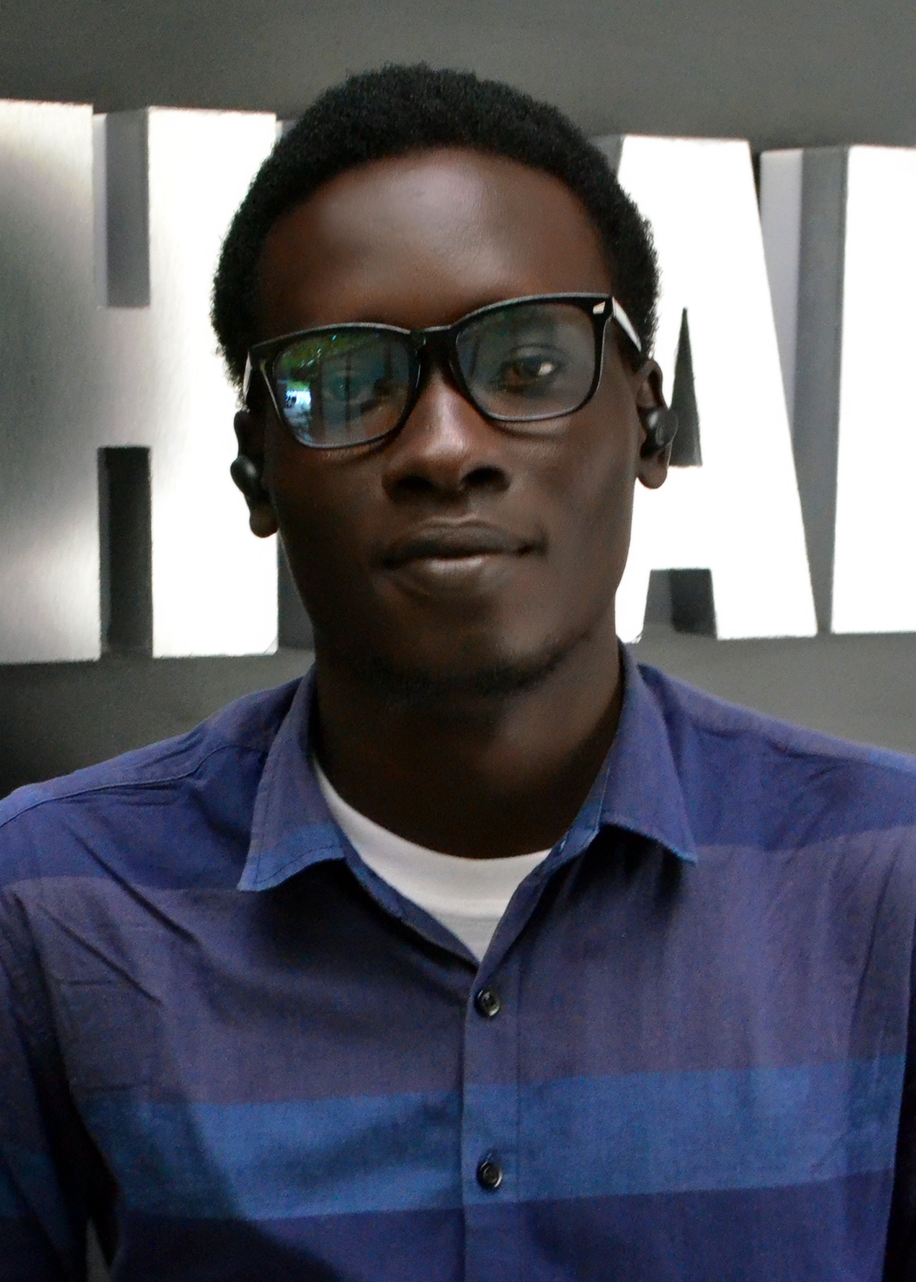
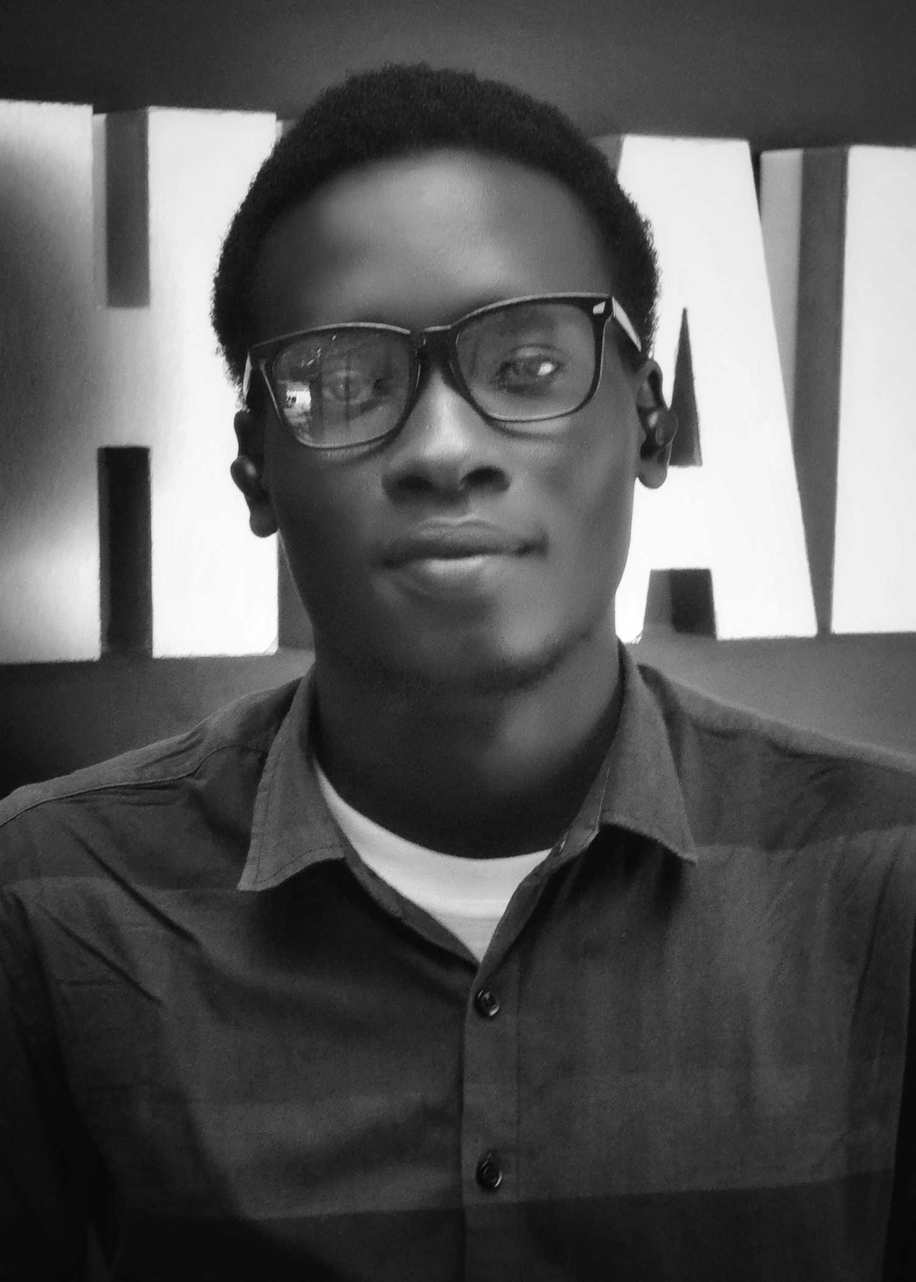
Update components

diff --git a/src/App.jsx b/src/App.jsx
@@ -12,7 +12,7 @@ const App = () => {
     return localStorage.getItem('darkMode') === 'true';
   });
   const [isSideMenuOpen, setIsSideMenuOpen] = useState(false);
-  const [activeTab, setActiveTab] = useState('gis');
+  const [activeTab, setActiveTab] = useState('data');
   
   useEffect(() => {
     if (isDarkMode) {
@@ -45,10 +45,9 @@ const App = () => {
           <h1 className="text-5xl font-bold text-gray-800 dark:text-gray-200 mb-6">
             Hello&#128075;, I'm Hussaini Ahmed
           </h1>
-          <p className="text-lg text-gray-600 dark:text-gray-400 mb-2">
-            Your friendly neighborhood <span className="text-blue-500">Data Scientist, </span> 
-            currently navigating the rocky terrain of a geology degree at the Federal University of Technology, Minna.
-            With a strong passion for the oil and gas sector and its integration with machine learning, I combine analytical skills and domain expertise to uncover valuable insights. 
+          <p className="text-lg text-gray-600 dark:text-gray-400 mb-2"> 
+            I specialize in <span className="text-blue-500">Geospatial Data Science</span>, where Data Analytics meets GIS Analysis to uncover patterns, visualize trends, and drive informed decision-making. From analyzing complex datasets to crafting interactive maps, I transform raw data into powerful insights that tell compelling stories. 
+            Let’s harness the power of location intelligence and data-driven solutions together!
           </p>
           <p className="text-lg text-gray-600 dark:text-gray-400 mb-8">I leverage machine learning and data science to unearth patterns and trends that drive innovation. So, if you need someone to map out the 
             path to your next big discovery or transform complex datasets into actionable insights, you’ve come to the right place. Let's rock and roll! </p>
@@ -63,29 +62,29 @@ const App = () => {
         <div className="flex justify-center mb-4 space-x-0">
           <button
             className={`px-6 py-3 flex items-center ${
-              activeTab === 'gis'
-                ? 'bg-gradient-to-r from-blue-400 via-blue-500 to-blue-600 hover:from-indigo-400 hover:via-indigo-500 hover:to-indigo-600 text-white px-5 py-2 shadow-lg transform hover:scale-105 transition-all duration-300 ease-in-out group'
-                : 'bg-white text-gray-800 dark:bg-gray-700 dark:text-gray-200'
-            }`}
-            onClick={() => setActiveTab('gis')}
-          >
-           <img src={"images/icons/location.png"} alt={"Icon"} className="w-6 h-6"/>
-           <span className='px-2'>GIS Analysis Projects</span>
-          </button>
-          <button
-            className={`px-6 py-3 flex items-center ${
               activeTab === 'data'
                 ? 'bg-gradient-to-r from-blue-400 via-blue-500 to-blue-600 hover:from-indigo-400 hover:via-indigo-500 hover:to-indigo-600 text-white px-5 py-2 shadow-lg transform hover:scale-105 transition-all duration-300 ease-in-out group'
                 : 'bg-white text-gray-800 dark:bg-gray-700 dark:text-gray-200'
             }`}
             onClick={() => setActiveTab('data')}
           >
+           <img src={"images/icons/location.png"} alt={"Icon"} className="w-6 h-6"/>
+           <span className='px-2'>Data Analytics</span>
+          </button>
+          <button
+            className={`px-6 py-3 flex items-center ${
+              activeTab === 'gis'
+                ? 'bg-gradient-to-r from-blue-400 via-blue-500 to-blue-600 hover:from-indigo-400 hover:via-indigo-500 hover:to-indigo-600 text-white px-5 py-2 shadow-lg transform hover:scale-105 transition-all duration-300 ease-in-out group'
+                : 'bg-white text-gray-800 dark:bg-gray-700 dark:text-gray-200'
+            }`}
+            onClick={() => setActiveTab('gis')}
+          >
             <img src={"images/icons/exploration.png"} alt={"Icon"} className="w-6 h-6"/>
-            <span className='px-2'>Data Analysis Projects</span>
+            <span className='px-2'>GIS Analysis</span>
           </button>
         </div>
         <div className="mt-4">
-          {activeTab === 'gis' ? <RecentGis /> : <RecentData />}
+          {activeTab === 'data' ? <RecentData /> : <RecentGis />}
         </div>
       </div>
       <Footer />

diff --git a/src/components/Skill_Section/SkillsSection.jsx b/src/components/Skill_Section/SkillsSection.jsx
@@ -10,7 +10,7 @@ const SkillCard = ({ title, description,  imageurl, experiences}) => {
       <h2 className="text-xl font-bold mb-2 text-gray-800 dark:text-white">{title}</h2>
       <p className="text-center mb-4 text-gray-600 dark:text-gray-300">{description}</p>
       <div className="mt-auto w-full">
-        <h3 className="text-lg text-center font-semibold mb-2 text-gray-800 dark:text-white">Experiences:</h3>
+        <h3 className="text-lg text-center font-semibold mb-2 text-gray-800 dark:text-white">Tools/Languages:</h3>
         <div className="flex flex-wrap justify-center">
           {experiences.map((exp, index) => (
             <div key={index} className="flex flex-col items-center mx-2 mb-2">
@@ -27,36 +27,8 @@ const SkillCard = ({ title, description,  imageurl, experiences}) => {
 const SkillsSection = () => {
   const skills = [
     {
-      title: "GIS Analysis",
-      description: "I can transform complex spatial data into visually stunning maps that reveal the hidden treasures of our Earth. Whether it's analyzing terrain, plotting geospatial patterns, or making sense of spatial data, I bring a sense of adventure and precision to every project. Who needs a fedora and a whip when you've got GIS?",
-      imageurl: "images/icons/location.png",
-      experiences: [
-        { 
-          name: "ArcGIS Pro",
-        },
-        { 
-          name: "QGIS",
-        },
-        { 
-          name: "Rockworks",
-        },
-        { 
-          name: "Georose",
-        },
-        { 
-          name: "Python",
-        },
-        { 
-          name: "Pandas",
-        },
-        { 
-          name: "SQL",
-        }
-      ]
-    },
-    {
-      title: "Data Analysis",
-      description: "I dive deep into data sets, uncovering trends, correlations, and anomalies that others might miss. From crunching numbers to crafting dashboards, I bring clarity to chaos and help businesses make data-driven decisions with confidence. Who knew number-crunching could be so exciting? Elementary, my dear Watson!",
+      title: "Data Analytics",
+      description: "Data holds the key to unlocking insights, and I specialize in transforming raw numbers into meaningful narratives. Using tools like Python, SQL, Excel, and Power BI, I analyze trends, identify patterns, and provide data-driven solutions that empower better decision-making. Whether it’s business intelligence, predictive modeling, or exploratory data analysis",
       imageurl: "images/icons/exploration.png",
       experiences: [
         { 
@@ -72,17 +44,51 @@ const SkillsSection = () => {
           name: "Python",
         },
         { 
+          name: "Sci-kit Learn",
+        },
+        { 
           name: "Matlibplot",
         },
         { 
           name: "SQL",
         },
       ]
-    }
+    },
+    {
+      title: "GIS Analysis",
+      description: "Location data is more than just points on a map—it tells a story. I specialize in GIS Analysis, using tools like ArcGIS, QGIS, and Google Earth to analyze spatial relationships, model geographic patterns, and create visually compelling maps. From environmental assessments to urban planning and infrastructure mapping, I turn geographic data into actionable intelligence.",
+      imageurl: "images/icons/location.png",
+      experiences: [
+        { 
+          name: "ArcGIS Pro",
+        },
+        { 
+          name: "QGIS",
+        },
+        { 
+          name: "Rockworks",
+        },
+        { 
+          name: "Georose",
+        },
+        { 
+          name: "Excel",
+        },
+        { 
+          name: "Python",
+        },
+        { 
+          name: "Pandas",
+        },
+        { 
+          name: "SQL",
+        }
+      ]
+    },
   ];
 
   return (
-    <div className="container mx-auto px-4 py-8">
+    <div id='id="projects"' className="container mx-auto px-4 py-8">
         <div className='border-gray-300 dark:border-gray-600 border-b-2 mb-8 pb-2'>
         <h1 className="text-2xl font-bold text-gray-900 dark:text-gray-200">
             What I Do

diff --git a/src/components/Footer.jsx b/src/components/Footer.jsx
@@ -8,7 +8,7 @@ const Footer = () => {
           {/* About Section */}
           <div>
             <h3 className="text-2xl font-bold mb-4">Hussaini Ahmed</h3>
-            <p className="mb-4">GIS and Data Analyst transforming raw data into actionable insights and stunning visualizations.</p>
+            <p className="mb-4">Bridging the gap between data and location, I transform raw information into actionable intelligence. Whether it's analytics or mapping, I help you see the bigger picture. Let’s connect and create something impactful! </p>
             <div className="flex space-x-4">
               {/* Social Media Icons */}
               <a href="#" className="hover:text-blue-200 transition-colors duration-300">
@@ -27,11 +27,9 @@ const Footer = () => {
           <div>
             <h3 className="text-xl font-semibold mb-4">Quick Links</h3>
             <ul className="space-y-2">
-              <li><a href="#" className="hover:text-blue-200 transition-colors duration-300">Home</a></li>
-              <li><a href="#" className="hover:text-blue-200 transition-colors duration-300">About</a></li>
               <li><a href="#" className="hover:text-blue-200 transition-colors duration-300">Services</a></li>
-              <li><a href="#" className="hover:text-blue-200 transition-colors duration-300">Portfolio</a></li>
-              <li><a href="#" className="hover:text-blue-200 transition-colors duration-300">Contact</a></li>
+              <li><a href="#" className="hover:text-blue-200 transition-colors duration-300">Projects</a></li>
+              <li><a href="#" className="hover:text-blue-200 transition-colors duration-300">Let's Connect on Linkedin</a></li>
             </ul>
           </div>
           

diff --git a/src/main.jsx b/src/main.jsx
@@ -12,10 +12,10 @@ ReactDOM.createRoot(document.getElementById("root")).render(
     <HashRouter>
       <Routes>
         <Route path="/" element={<Home />} />
-        <Route path="/contact" element={<Contact />} />
+        {/* <Route path="/contact" element={<Contact />} />
         <Route path="/experience" element={<Experience />} />
         <Route path="/projects" element={<Projects />} />
-        {/* <Route path="/ErrorPage" element={<Projects />} /> */}
+        <Route path="/ErrorPage" element={<Projects />} /> */}
       </Routes>
     </HashRouter>
   </React.StrictMode>

diff --git a/src/components/NavBar/navlinks.js b/src/components/NavBar/navlinks.js
@@ -1,10 +1,6 @@
 const navLinks = [
-  { href: "/experience", text: "Experience" },
-  { href: "/projects", text: "Projects" },
-  { href: "/resume", text: "Resume" },
-  { href: "/blog", text: "Blog" },
-  { href: "/awards", text: "Awards" },
-  { href: "/contact", text: "Contact" },
+  { href: "/", text: "Home" }, // Links to the Services section
+  { href: "/", text: "Download Resume" }, // Links to the Projects section  // Links to the Contact section
 ];
 
 export default navLinks;

diff --git a/src/components/Recent_Work_Data/RecentWork.jsx b/src/components/Recent_Work_Data/RecentWork.jsx
@@ -8,7 +8,7 @@ const RecentData = () => {
       <div className="container mx-auto px-4 py-8">
         <div className='border-gray-300 dark:border-gray-600 border-b-2 mb-4 pb-2'>
         <h1 className="text-2xl font-bold text-gray-900 dark:text-gray-200">
-        Data Analysis Projects
+        Data Analytics Projects
         </h1>
         </div>
         <main className="container mx-auto">
